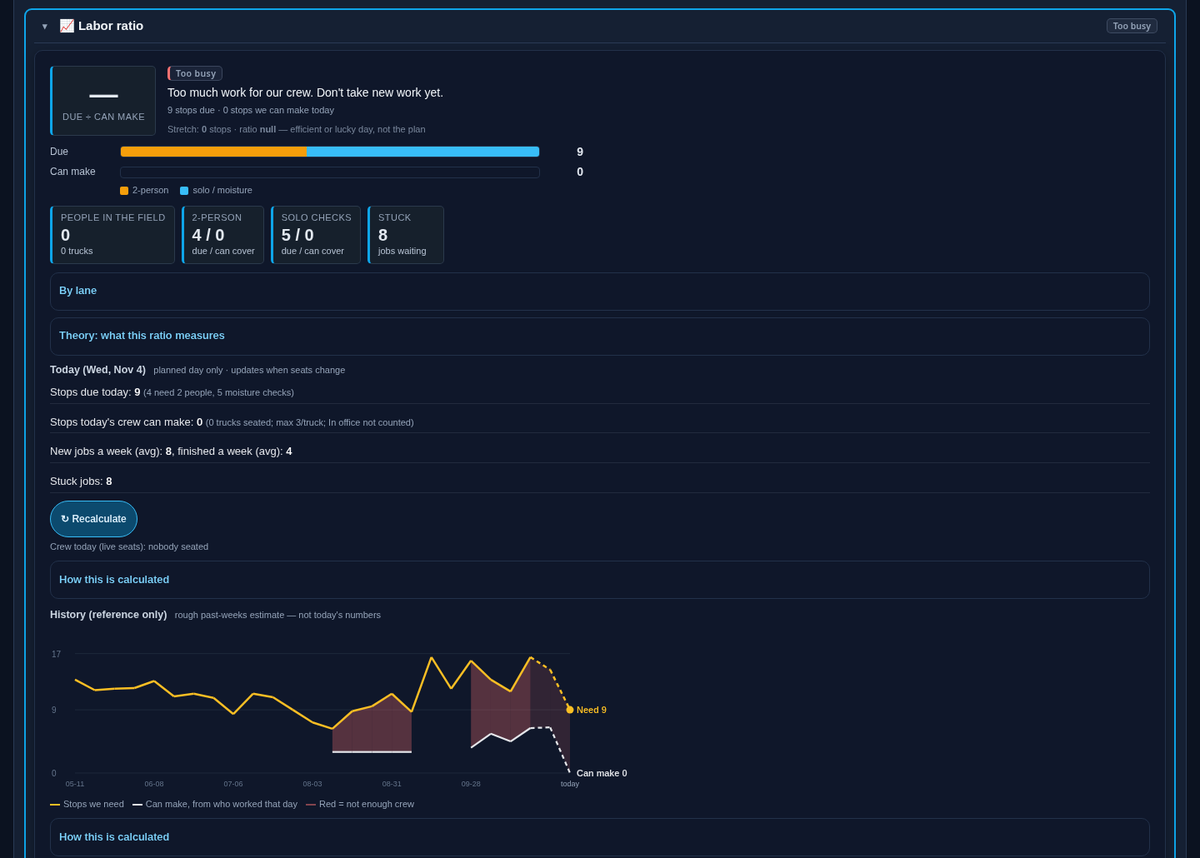
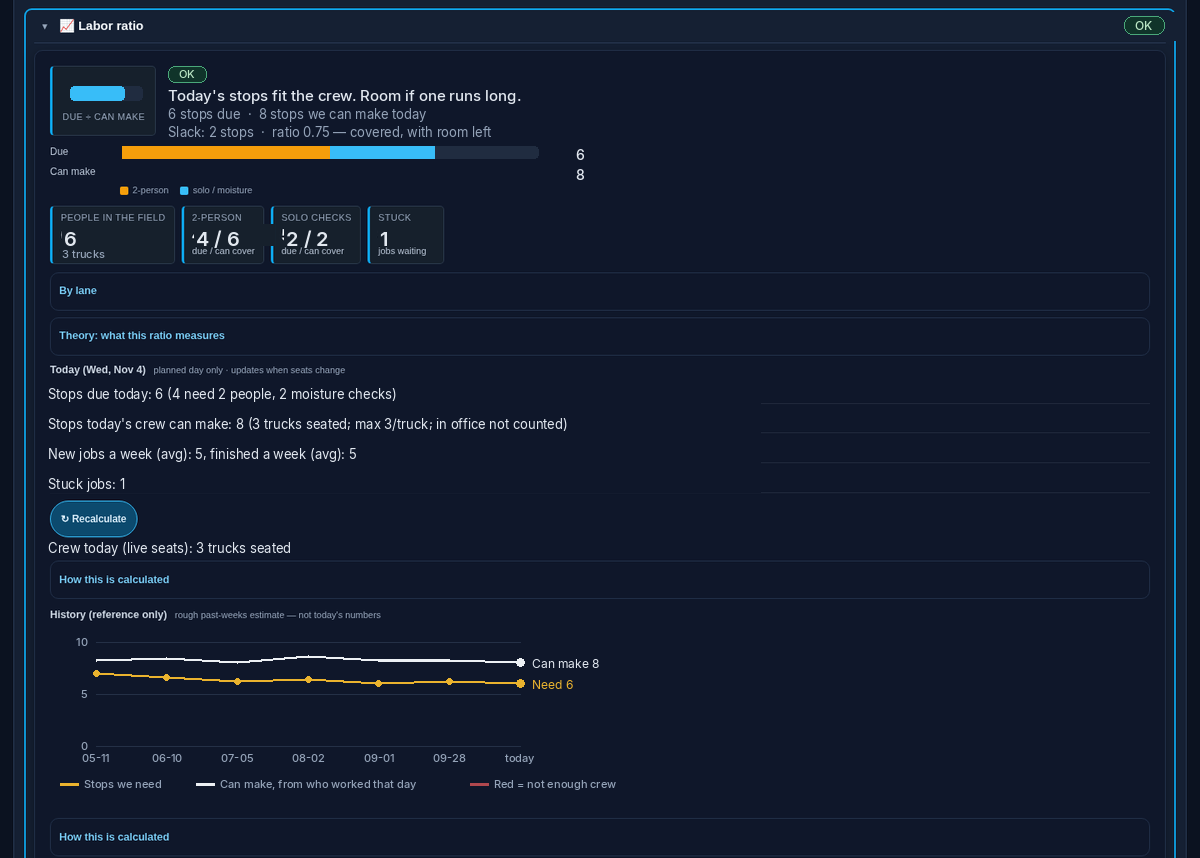
Showroom: illustrate the map and a covered labor day (#8)
Replace the cropped map with a full-frame view and fictional pins, and
replace the labor-ratio picture with an invented day the crew can cover.
Captions say the pins are not real jobs and the figures are not measured.

diff --git a/README.md b/README.md
@@ -211,9 +211,9 @@ Every open job as a card in the lane for its stage, from call to close.
 
 ### Labor ratio
 
-<a href="img/showroom/04_labor_ratio.png"><img src="img/showroom/04_labor_ratio.png" alt="Labor ratio" width="100%"></a>
+<a href="img/showroom/04_labor_ratio.png"><img src="img/showroom/04_labor_ratio.png" alt="Labor ratio illustration. The figures are invented demo numbers, not measured results." width="100%"></a>
 
-Due stops divided by the stops the crew can make today, as a plain call: OK, busy or too busy.
+Due stops divided by the stops the crew can make today, as a plain call: OK, busy or too busy. The figures in this picture are an illustration, invented for the showroom, not measured results.
 
 - Two-person vs solo check coverage
 - Stuck jobs by lane
@@ -247,15 +247,15 @@ Builds the day's routes from the trucks going out and the stops due.
 
 ### Map
 
-<a href="img/showroom/07_map.png"><img src="img/showroom/07_map.png" alt="Map" width="100%"></a>
+<a href="img/showroom/07_map.png"><img src="img/showroom/07_map.png" alt="Map illustration with fictional demo pins on a public basemap. Not actual job locations." width="100%"></a>
 
-Job pins on a map, colored by lane.
+Job pins on a map, colored by lane. This picture is an illustration: the pins are fictional marks on a public basemap, not customer jobs or real stop locations.
 
 - Lane filters, fit to jobs
 - Show today's routes with truck stop order
 - Rings mark jobs that need a stop today
 
-**Ties in:** Pins come from the job board; routes come from Dispatch. (Demo data here has no pins placed.)
+**Ties in:** Pins come from the job board; routes come from Dispatch.
 
 ### Hazard survey
 
